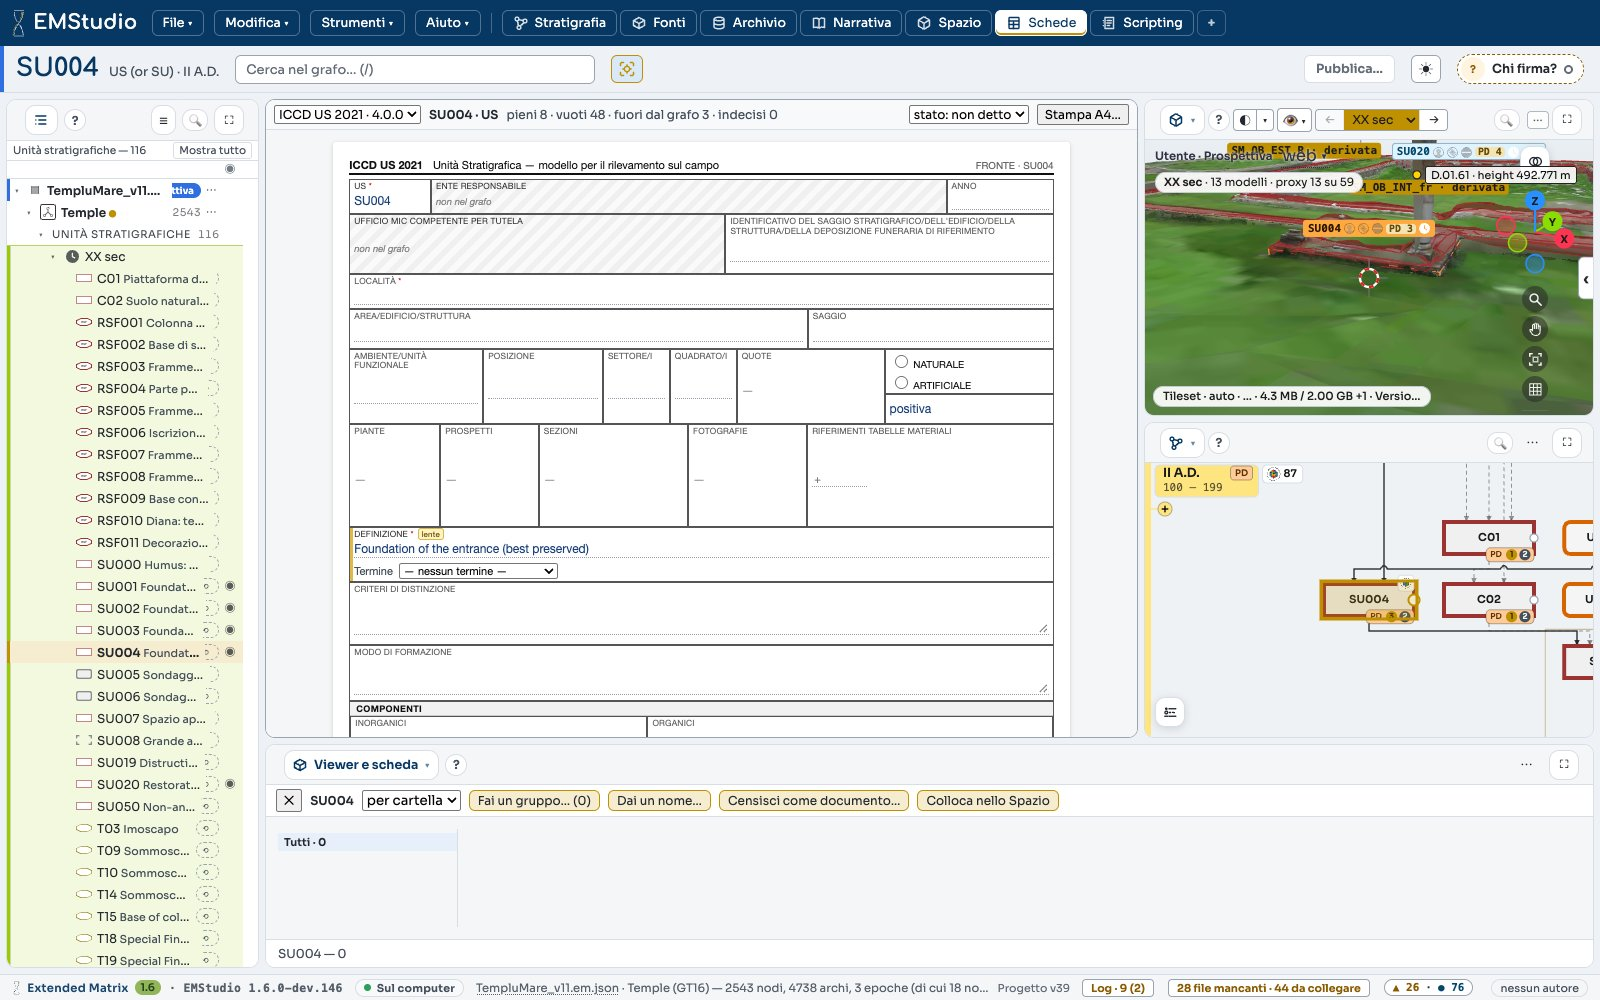
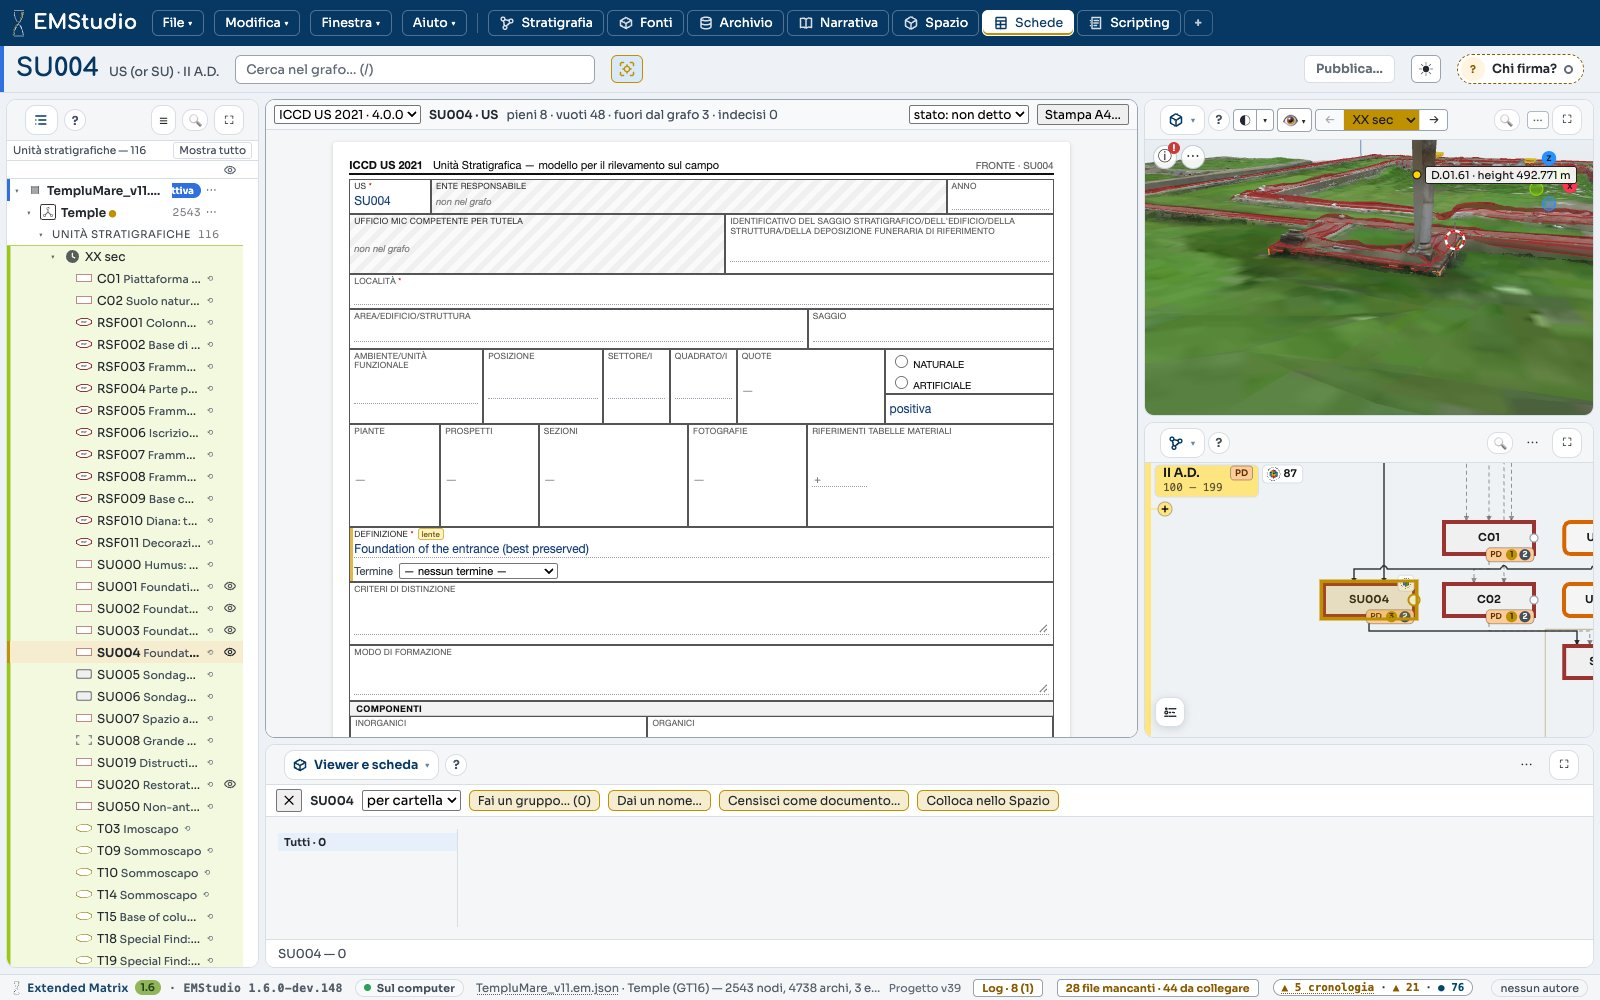
The small 3D view (MICRO-SEG31, 22 Nov 2026): Space ▸ Load models and tilesets — the neutral counts of the epoch, the warning only when something does not load, and «When the 3D view is small» (small: gizmo, ⓘ, ⋯; medium: one line; large: as before); Narrative ▸ Follow the text in 3D points to it. E

diff --git a/docs/how-to/space/load-models-and-tilesets.rst b/docs/how-to/space/load-models-and-tilesets.rst
@@ -135,10 +135,16 @@ See what the scene holds
 .. image:: /_static/screens/workspaces/space-tileset.jpg
    :alt: The Space workspace with the tileset Survey_2015_egm2008 chosen in the Outliner and drawn in the 3D scene with the proxies over it; the chip Tileset · auto at the foot of the scene and the Inspector of the model on the right.
 
-- The line above the scene sums up the epoch shown: its name, how many models
-  it has, and how many of its units have a proxy. A click on it opens the epoch in every
+- The line above the scene sums up the epoch shown: its name, how many of its
+  units have a proxy and how many models it has, for example **64 of 108 units in
+  this epoch have a 3D proxy · 87 models**. The units without a proxy are not a
+  fault: they have no shape yet. A click on the line opens the epoch in every
   **Outliner**, where the epoch's **Models**, **Proxies**, **RMDoc** and **RMSF**
   are listed, and **Without proxy** gathers the units that have no shape yet.
+- Only when something does not load, the line adds a warning in red, for
+  example **⚠ 2 models do not load**, with **why**: it names the models (their
+  file is missing, refused or could not be read) and offers **Show in the
+  Outliner**, where the row of each one says which.
 - **Visibility ▾** switches the categories of the scene on and off: **RM models**,
   **Tilesets**, **RMDoc**, **RMSF**, **Proxies**, **Sketches**, **3D extractors**
   and **Territory / GIS**, each with how many there are in the epoch. The button
@@ -156,6 +162,35 @@ See what the scene holds
 - When nothing is drawn, a line under **The scene is empty** says why: a category
   switched off, a model hidden from the Outliner, a file missing, units without a
   proxy, a tileset whose root has not arrived.
+
+.. _how-to-space-compact-view:
+
+When the 3D view is small
+-------------------------
+
+A 3D view takes the form of the room it has, as the regions of Blender hide
+what does not fit. This holds for every 3D view: the Space, the scene beside
+the Narrative, a Space made smaller.
+
+- **Small** (narrower than 520 pixels or lower than 360): only the navigation
+  gizmo, smaller, stays on the scene, with two round buttons in the top left
+  corner. **ⓘ** opens the state of the scene: the view, the epoch, its units
+  with a proxy and its models, what does not load and why, the tileset, the
+  statistics, the hardware profile, and in the Narrative what the scene
+  follows. **⋯** brings back the buttons of the view: the toolbar, the column
+  under the gizmo, the overlays, the side tabs, the legend. The labels of the
+  proxies are off, so as not to cover the scene: **Labels of the proxies** in
+  **ⓘ** turns them on. In the Narrative, **Follow the text** stays beside the
+  two buttons.
+- **Medium** (up to 820 × 520): one line, the summary of the epoch, after **ⓘ**.
+- **Large**: everything as described above.
+
+When something does not load, **ⓘ** carries a red dot: open it to read why.
+The statistics (triangles, vertices, objects, draw calls) are shown only when
+you turn them on: ``Overlays ▸ Statistics``.
+
+.. image:: /_static/screens/space/compact-view.png
+   :alt: The 3D scene beside the Narrative, small: the gizmo, the buttons ⓘ and ⋯ and Follow the text; ⓘ open on This 3D view with the view, the epoch II A.D., its units with a 3D proxy and its models, the statistics off and the hardware profile.
 
 Choose what the scene loads
 ---------------------------

diff --git a/docs/how-to/narrative/write-the-narrative.rst b/docs/how-to/narrative/write-the-narrative.rst
@@ -332,10 +332,13 @@ The strip at the top of the scene has three buttons:
   :ref:`how-to-narrative-figures`).
 
 The scene is an area like the others: you can resize it, close it, or change it
-into another kind of window from its header.
+into another kind of window from its header. When it is small, it keeps only
+the gizmo, **Follow the text**, **ⓘ** (what it shows and what it follows) and
+**⋯**, which brings back **Frame this block**, **Insert this view as a figure**
+and the other buttons of the view (see :ref:`how-to-space-compact-view`).
 
 .. image:: /_static/screens/narrative/follow-3d.jpg
-   :alt: Chapter 8, Virtual Activity 1, with its first paragraph active: the 3D scene above the Matrix shows II A.D. with the proxies of VAct.01 Foundations of the temple only, USV102 and USV108 among them, and the strip Follow the text, Frame this block, Insert this view as a figure.
+   :alt: Chapter 8, Virtual Activity 1, with its first paragraph active: the 3D scene above the Matrix, a small area, shows II A.D. with the proxies of VAct.01 Foundations of the temple only, with the gizmo and the buttons ⓘ, ⋯ and Follow the text.
 
 From the scene to the text
 ~~~~~~~~~~~~~~~~~~~~~~~~~~
